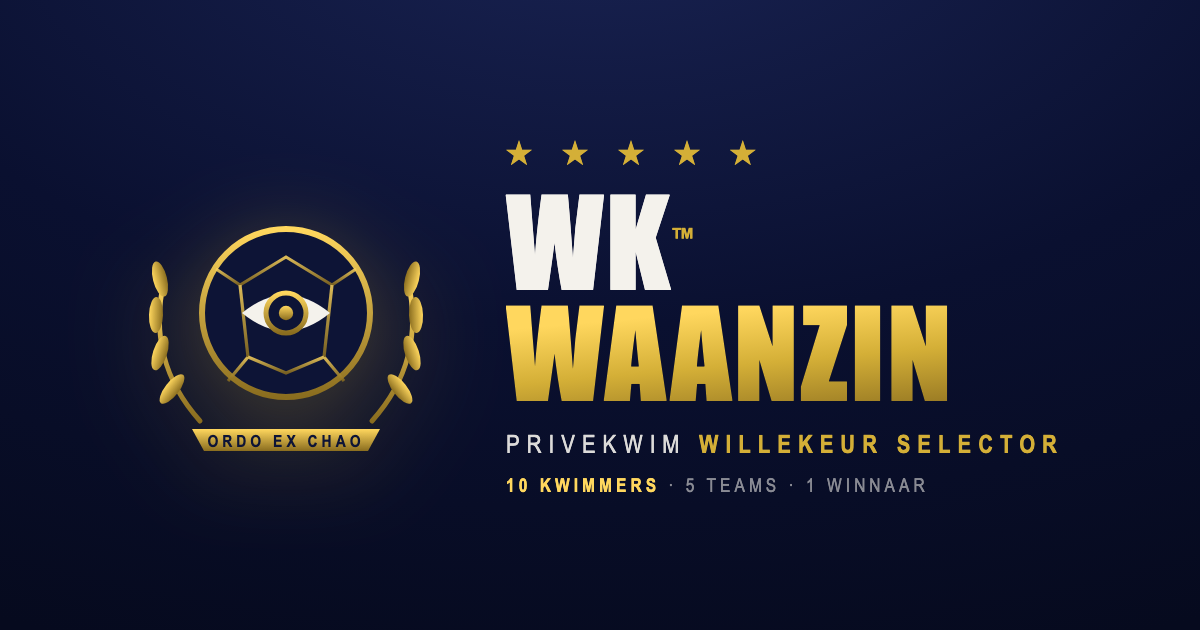
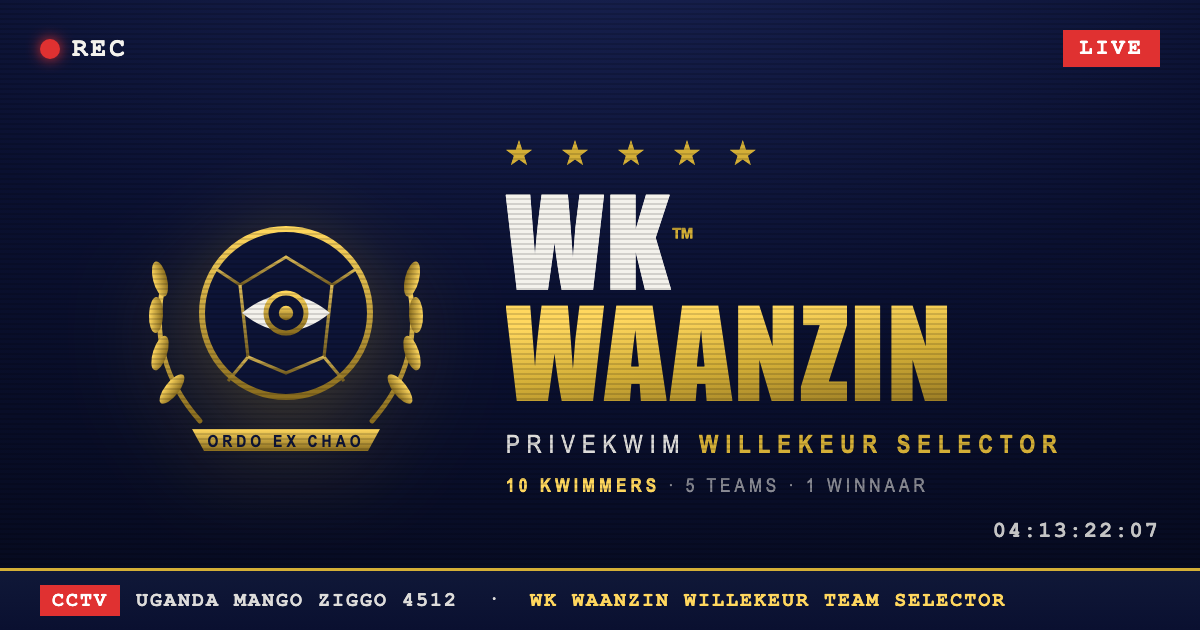
OG-preview als CCTV Uganda Mango Ziggo 4512 broadcast

diff --git a/og.html b/og.html
@@ -45,6 +45,48 @@
     color: rgba(244,242,236,0.55);
   }
   .strip b { color: #ffd75e; }
+
+  /* ---------- CCTV broadcast overlay ---------- */
+  .scanlines {
+    position: fixed; inset: 0;
+    background: repeating-linear-gradient(0deg, rgba(0,0,0,0.14) 0 2px, transparent 2px 5px);
+    pointer-events: none;
+  }
+  .rec {
+    position: fixed; top: 34px; left: 40px;
+    display: flex; align-items: center; gap: 12px;
+    font-family: "Courier New", monospace;
+    font-size: 26px; font-weight: 700; letter-spacing: 3px;
+    color: #f4f2ec;
+  }
+  .rec .dot { width: 20px; height: 20px; border-radius: 50%; background: #e03131; box-shadow: 0 0 14px #e03131; }
+  .live {
+    position: fixed; top: 30px; right: 40px;
+    font-family: "Courier New", monospace;
+    font-size: 22px; font-weight: 700; letter-spacing: 3px;
+    color: #fff; background: #e03131;
+    padding: 6px 16px;
+  }
+  .timecode {
+    position: fixed; bottom: 86px; right: 40px;
+    font-family: "Courier New", monospace;
+    font-size: 22px; font-weight: 700; letter-spacing: 2px;
+    color: rgba(244,242,236,0.8);
+  }
+  .chyron {
+    position: fixed; left: 0; right: 0; bottom: 0;
+    background: linear-gradient(180deg, #101838, #0a1030);
+    border-top: 3px solid #d4af37;
+    padding: 14px 40px;
+    display: flex; align-items: center; gap: 16px;
+    white-space: nowrap;
+    font-family: "Courier New", monospace;
+    font-size: 20px; font-weight: 700; letter-spacing: 2px;
+    text-transform: uppercase;
+    color: rgba(244,242,236,0.9);
+  }
+  .chyron .cctv { background: #e03131; color: #fff; padding: 4px 12px; }
+  .chyron b { color: #ffd75e; }
 </style>
 </head>
 <body>
@@ -92,5 +134,11 @@
     <div class="subtitle">Privekwim <b>Willekeur Selector</b></div>
     <div class="strip"><b>10 kwimmers</b> · 5 teams · 1 winnaar</div>
   </div>
+
+  <div class="scanlines"></div>
+  <div class="rec"><span class="dot"></span>REC</div>
+  <div class="live">LIVE</div>
+  <div class="timecode">04:13:22:07</div>
+  <div class="chyron"><span class="cctv">CCTV</span> Uganda Mango Ziggo 4512 &nbsp;·&nbsp; <b>WK Waanzin Willekeur Team Selector</b></div>
 </body>
 </html>

diff --git a/index.html b/index.html
@@ -6,8 +6,8 @@
 <title>WK WAANZIN™ — Privekwim Willekeur Selector</title>
 <meta name="theme-color" content="#060a1e">
 <meta property="og:type" content="website">
-<meta property="og:title" content="WK WAANZIN™ — Privekwim Willekeur Selector">
-<meta property="og:description" content="De loting is live. Selecteer je naam en ontvang je team. 10 kwimmers · 5 teams · 1 winnaar.">
+<meta property="og:title" content="CCTV - Uganda Mango Ziggo 4512">
+<meta property="og:description" content="WK Waanzin Willekeur Team Selector">
 <meta property="og:url" content="https://jeitjes.github.io/wk-waanzin-willekeur-selector/">
 <meta property="og:image" content="https://jeitjes.github.io/wk-waanzin-willekeur-selector/og.png">
 <meta property="og:image:width" content="1200">